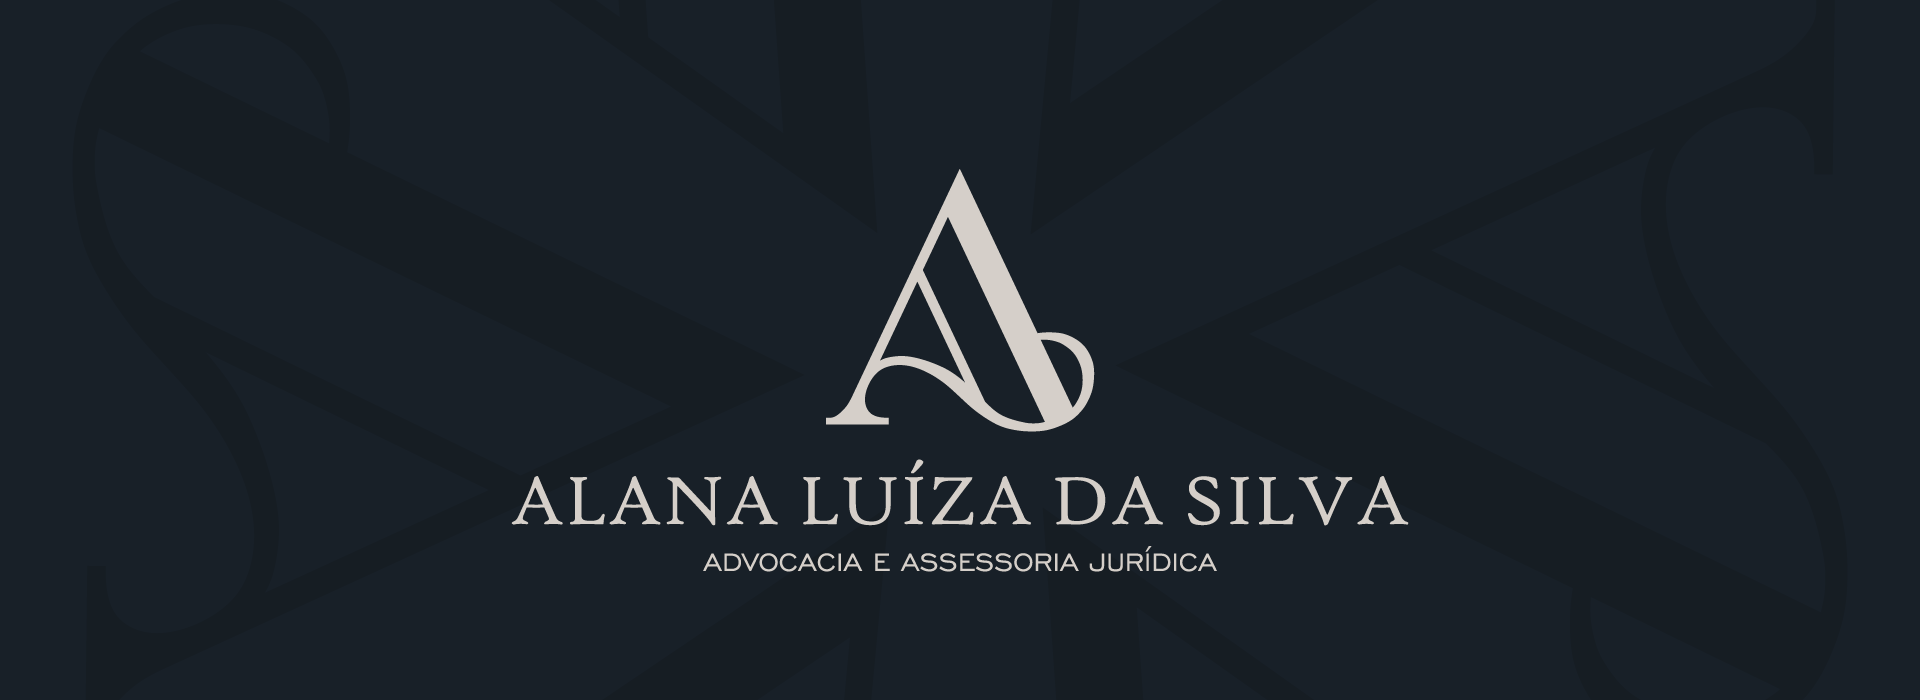
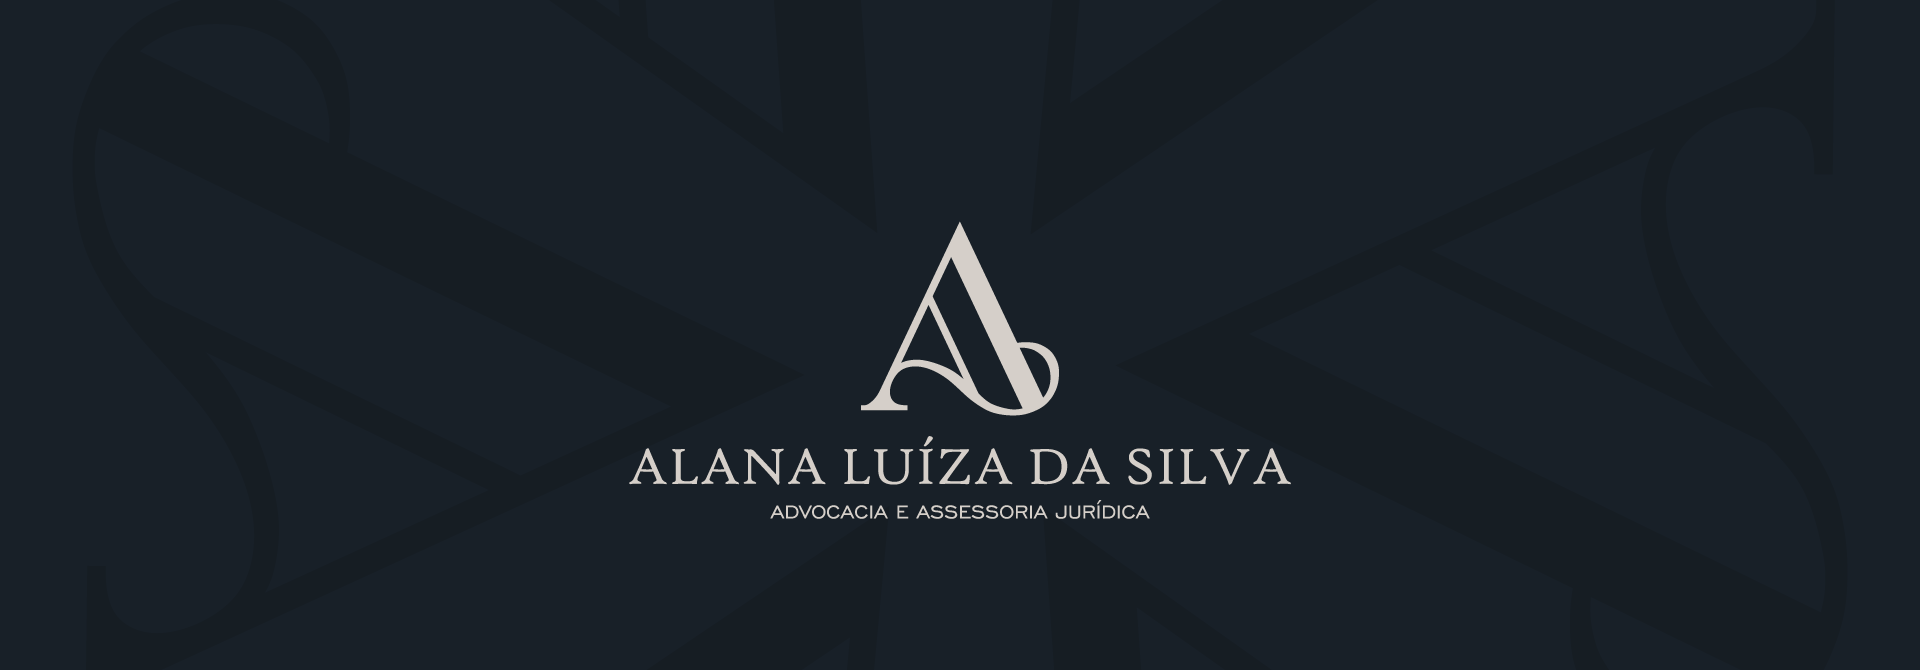
adjusting images and responsiveness

Changed region(s): [[0.25, 0.6567, 0.75, 0.8358], [0.4375, 0.2687, 0.5938, 0.6269]]

diff --git a/src/components/About/index.tsx b/src/components/About/index.tsx
@@ -2,25 +2,22 @@ import AboutItem from "../AboutItem";
 
 export default function About() {
   return (
-    <section id="sobre" className="py-20 min-h-screen">
-      <div className="container mx-auto flex flex-col-reverse lg:flex-row items-start gap-12 h-full">
+    <section id="sobre" className="py-12 min-h-screen">
+      <div className="max-w-screen-xl mx-auto flex flex-col-reverse lg:flex-row items-start gap-12 h-full">
         <div className="w-full lg:w-1/2">
           <img
-            src="/about.jpeg"
+            src="/about.png"
             alt="Foto da equipe de advocacia"
-            className="rounded-xl w-full max-h-[600px] object-cover"
+            className="rounded-xl w-full max-w-lg object-contain mx-auto"
           />
         </div>
 
-        <div className="w-full lg:w-1/2 flex flex-col justify-center items-center gap-6 h-full">
+        <div className="w-full lg:w-1/2 flex flex-col justify-center items-center gap-12 h-full">
           <AboutItem text="Lorem ipsum dolor sit amet, consectetur adipiscing elit. Donec tincidunt blandit odio pellentesque tincidunt. 
-              Quisque porta imperdiet odio quis fermentum. Vivamus mattis semper sapien vitae laoreet. 
-              Duis eget maximus ipsum. Mauris at tempor sapien. Nam in tempor nunc. Nulla pretium sapien neque."/>
+              Quisque porta imperdiet odio quis fermentum. Vivamus mattis semper sapien vitae laoreet."/>
           
           <AboutItem text="Lorem ipsum dolor sit amet, consectetur adipiscing elit. Donec tincidunt blandit odio pellentesque tincidunt. 
-              Quisque porta imperdiet odio quis fermentum. Vivamus mattis semper sapien vitae laoreet. 
-              Duis eget maximus ipsum. Mauris at tempor sapien. Nam in tempor nunc. Nulla pretium sapien neque."/>
-
+              Quisque porta imperdiet odio quis fermentum. Vivamus mattis semper sapien vitae laoreet."/>
         </div>
       </div>
     </section>

diff --git a/src/components/Areas/index.tsx b/src/components/Areas/index.tsx
@@ -4,14 +4,13 @@ export default function Areas() {
   return (
     <section
       id="areas"
-      className="relative min-h-screen py-24 flex items-center justify-center"
-      style={{ backgroundColor: 'var(--bg-dark-blue)' }}
+      className="relative min-h-screen py-24 flex items-center justify-center overflow-hidden"
     >
-      <div className="absolute z-0">
+      <div className="absolute inset-0 z-0">
         <img
           src="/areas.png"
           alt="Fundo áreas"
-          className="w-200 h-200 xl:w-full xl:h-full object-cover opacity-20"
+          className="w-full h-full object-cover"
         />
       </div>
 

diff --git a/src/components/Hero/index.tsx b/src/components/Hero/index.tsx
@@ -1,6 +1,6 @@
 export default function Hero() {
     return(
-        <section id="hero" className="relative h-[40vh] sm:h-[60vh] flex items-center justify-center overflow-hidden">
+        <section id="hero" className="relative h-[40vh] sm:h-[50vh] flex items-center justify-center overflow-hidden">
             <div className="absolute inset-0 z-0">
                 <img
                 src="/banner.png"

diff --git a/src/components/AboutItem/index.tsx b/src/components/AboutItem/index.tsx
@@ -4,7 +4,7 @@ export interface AboutItemInterface {
 
 export default function AboutItem(props: AboutItemInterface) {
     return (
-        <div className="w-full max-w-xl text-gray-800 p-10 rounded-sm shadow-lg">
+        <div className="w-full max-w-lg text-gray-800 p-10 rounded-sm shadow-md">
             <p className="text-lg mb-4 text-justify">
               {props.text}
             </p>
